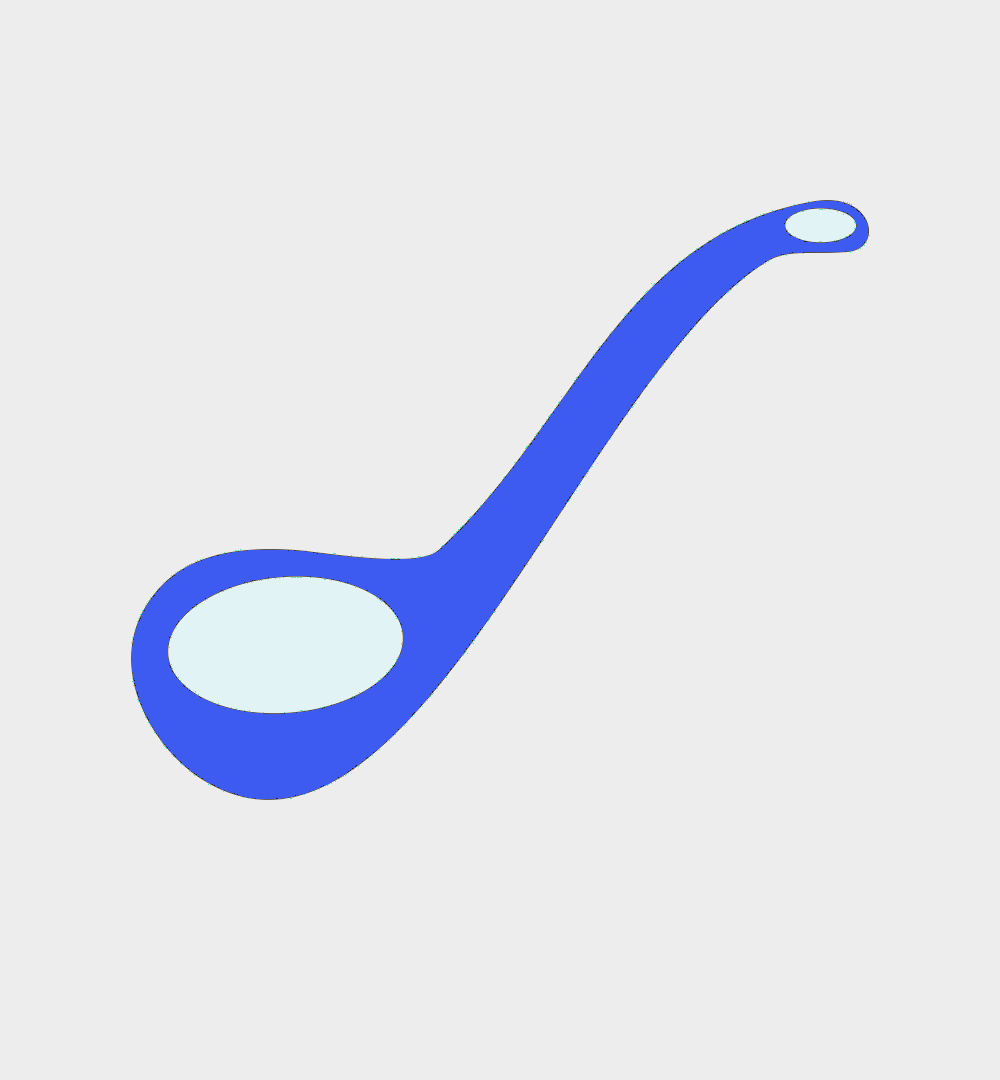
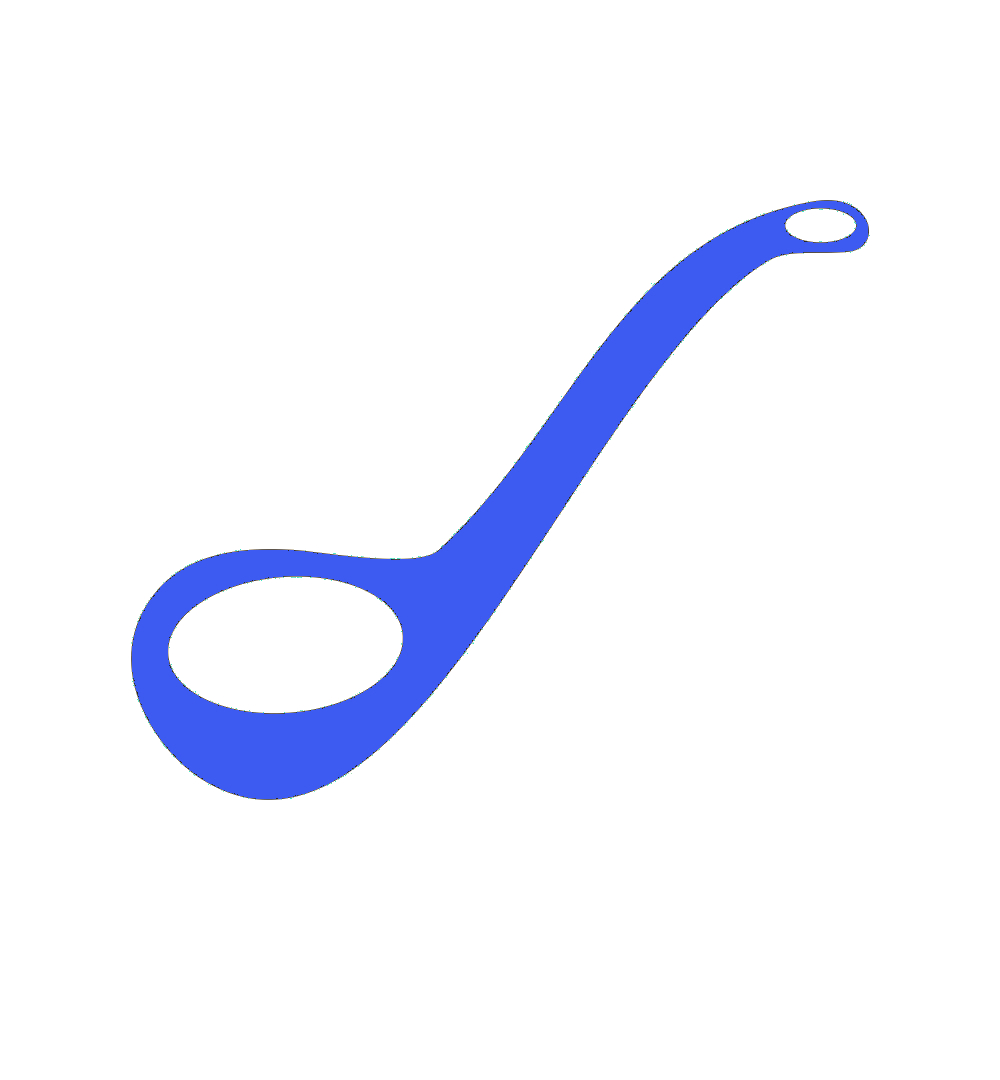
change styles

Changed region(s): [[0.155, 0.5194, 0.403, 0.6722], [0.775, 0.1833, 0.868, 0.2444]]

diff --git a/src/views/myRecipes/myRecipes.css b/src/views/myRecipes/myRecipes.css
@@ -13,7 +13,7 @@
 .myrecipes-second-section {
   width: 50vw;
   height: 100vh;
-  background-color: #ededed;
+  background-color: #ffffff;
 }
 .myrecipes-list {
   height: 100vh;
@@ -209,6 +209,9 @@
   text-align: justify;
   word-wrap: break-word;
   white-space: pre-wrap;
+  background-color: #f3f6f8;
+  padding: 1%;
+  border-radius: 5px;
 }
 .recipeDetails-player-wrapper {
   position: relative;

diff --git a/src/views/myEvents/myEvents.css b/src/views/myEvents/myEvents.css
@@ -14,7 +14,7 @@
 .myevents-second-section {
   height: 100vh;
   width: 50vw;
-  background-color: #ededed;
+  background-color: #ffffff;
 }
 .myevents-top-box {
   height: 25vh;
@@ -200,6 +200,9 @@
   text-align: justify;
   word-wrap: break-word;
   white-space: pre-wrap;
+  background-color: #f3f6f8;
+  padding: 1%;
+  border-radius: 5px;
 }
 .eventpreview-button-preview-box {
   display: flex;

diff --git a/src/views/recipeBook/recipeBook.css b/src/views/recipeBook/recipeBook.css
@@ -20,7 +20,7 @@
 .recipebook-second-section {
   height: 100vh;
   width: 50vw;
-  background-color: #ededed;
+  background-color: #ffffff;
 }
 .recipebook-soup {
   width: 25vw;
@@ -192,6 +192,9 @@
   text-align: justify;
   word-wrap: break-word;
   white-space: pre-wrap;
+  background-color: #f3f6f8;
+  padding: 1%;
+  border-radius: 5px;
 }
 .recipeDetails-comments-area {
   display: flex;

diff --git a/src/forms/myRecipes/myRecipesForm.js b/src/forms/myRecipes/myRecipesForm.js
@@ -66,6 +66,7 @@ const MyRecipesForm = () => {
                   height: 75,
                   fontFamily: "OpenSans-Regular",
                   border: "1px solid #CED4DA",
+                  backgroundColor: "#f3f6f8",
                 }}
                 withIcon={false}
                 singleImage={true}

diff --git a/src/forms/myEvents/MyEventsForm.js b/src/forms/myEvents/MyEventsForm.js
@@ -91,6 +91,7 @@ const MyEventsForm = () => {
                   height: 75,
                   fontFamily: "OpenSans-Regular",
                   border: "1px solid #CED4DA",
+                  backgroundColor: "#f3f6f8",
                 }}
                 withIcon={false}
                 singleImage={true}

diff --git a/src/forms/myRecipes/myRecipesForm.css b/src/forms/myRecipes/myRecipesForm.css
@@ -1,6 +1,6 @@
 .myrecipes-form-scroll-area {
   height: 90vh;
-  padding: 20px;
+  padding: 18px;
 }
 .myrecipes-form-player-wrapper {
   position: relative;

diff --git a/src/shared/global.css b/src/shared/global.css
@@ -16,4 +16,5 @@
   font-family: var(--font-family-osr);
   font-size: var(--font-size);
   color: #071a52;
+  background-color: #f3f6f8;
 }
